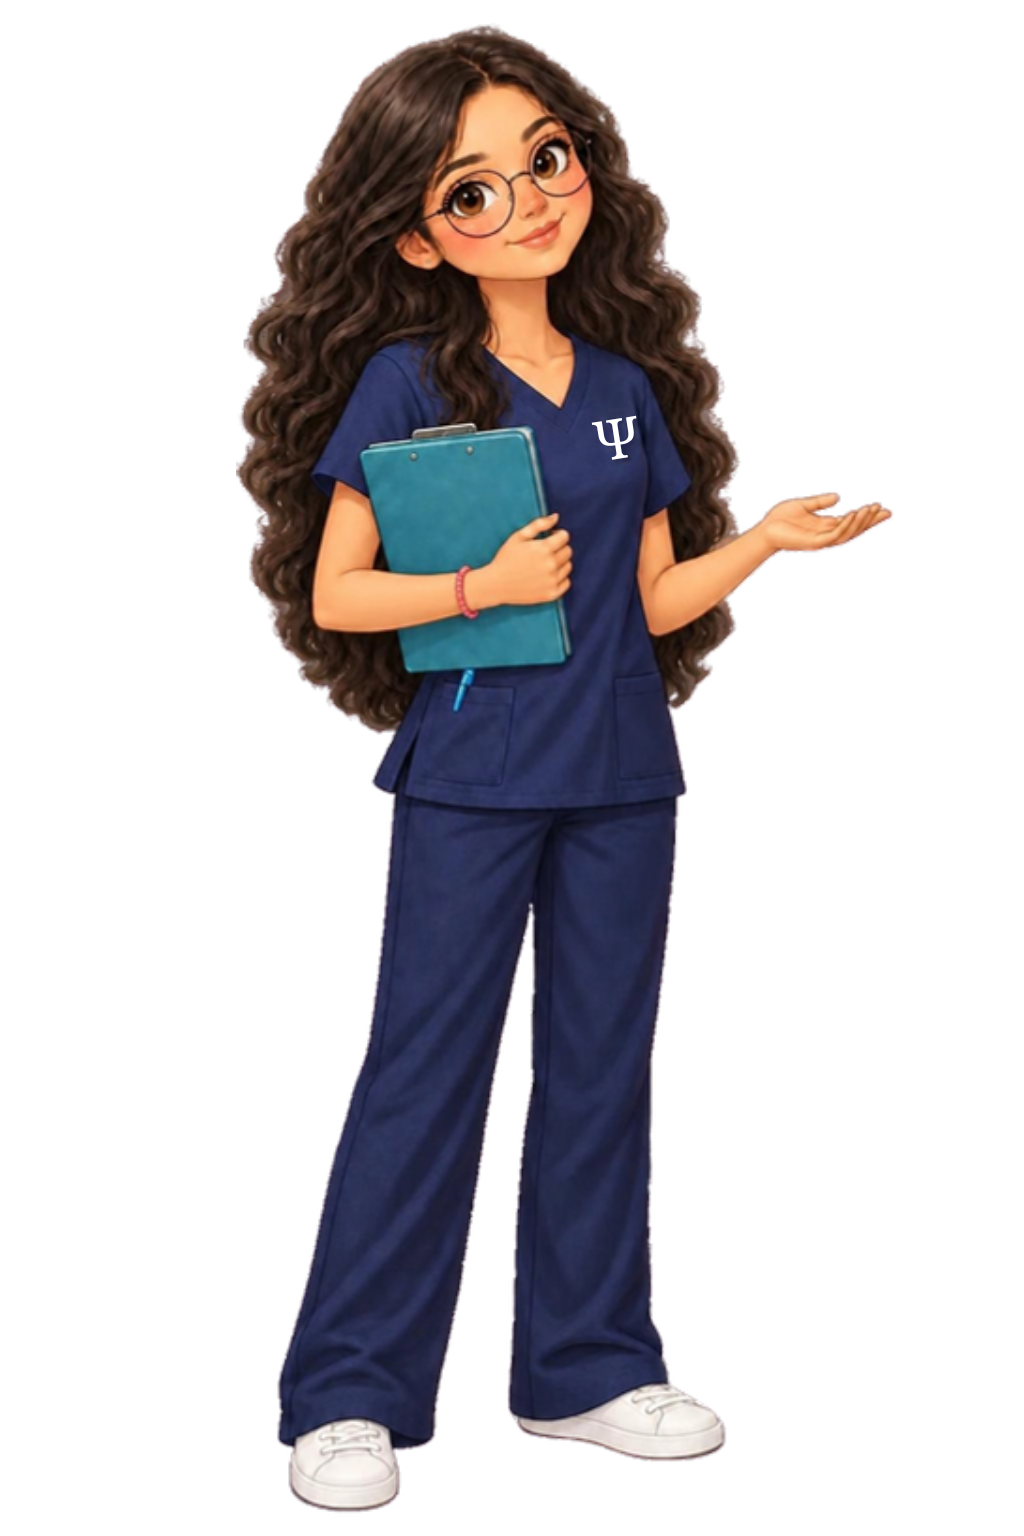
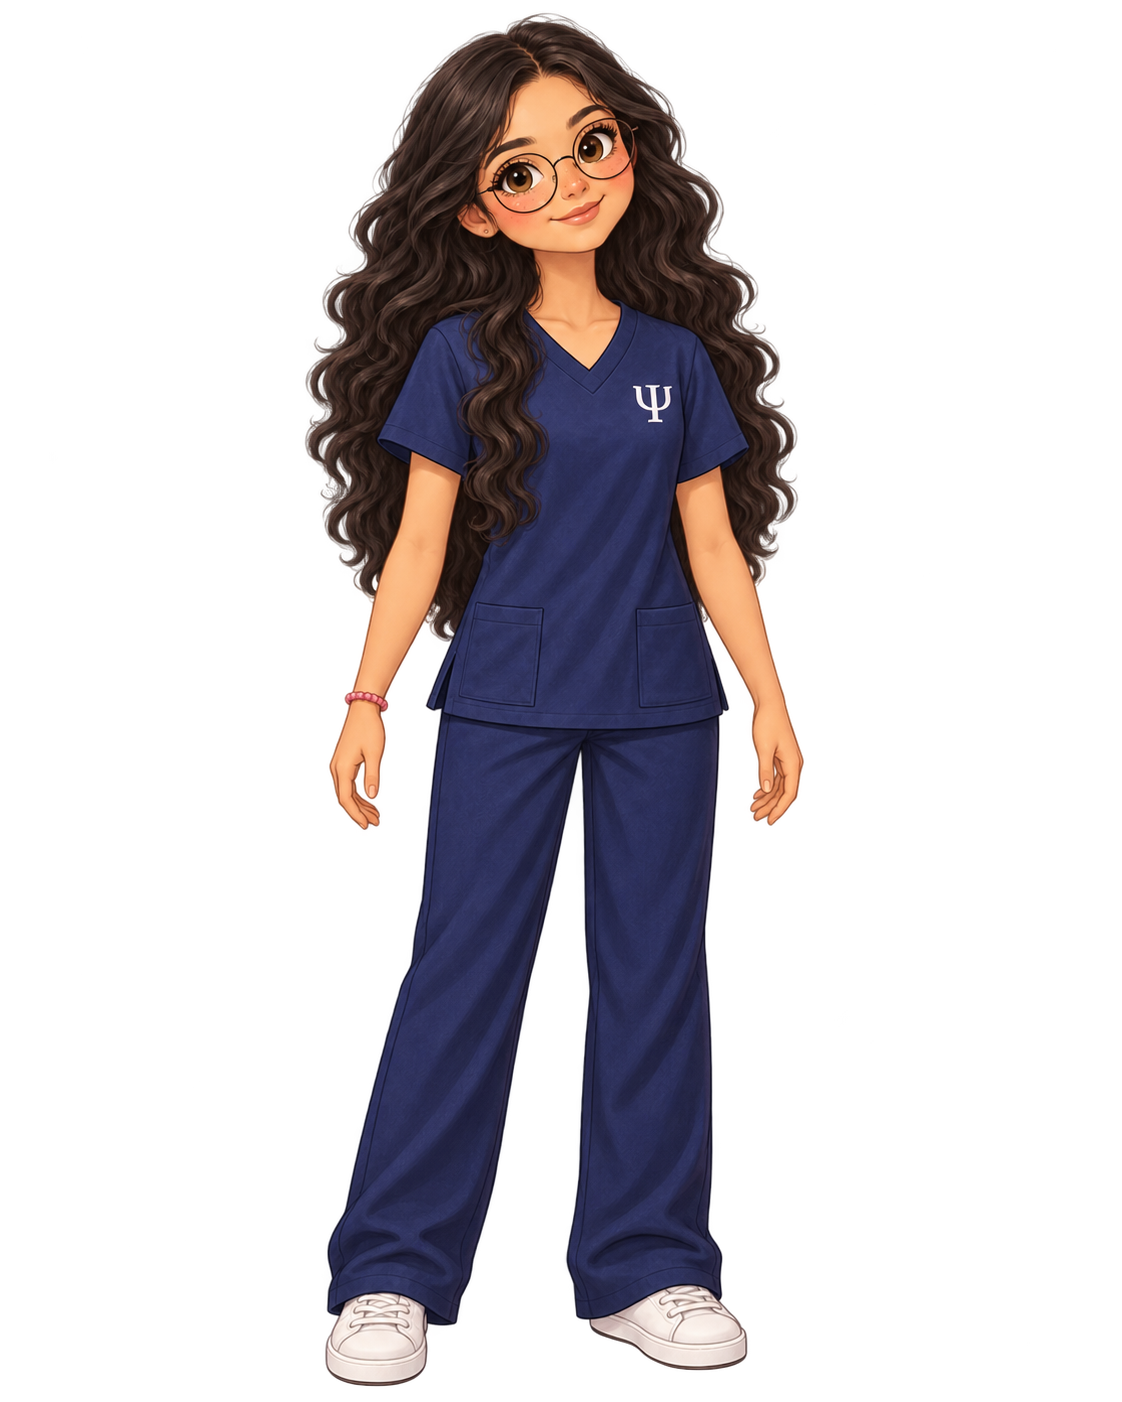
Activar avatares de los 6 perfiles (11 estáticos + PA con video)
AC, DE, EP, IH y AP quedan con imagen fija por sexo (sin video, ya
que por ahora no hay forma de generar más clips animados); PA
conserva el video + hover que ya tenía, con un PNG actualizado del
mismo personaje. app.js ahora distingue entre un personaje con video
(mantiene el gesto al pasar el mouse) y uno solo con imagen (se
muestra fijo, sin cursor de interacción, ya que no hay nada que
reproducir).

AP, DE, EP e IH llegaron como ilustración de escena completa (con
mobiliario) en vez del personaje aislado de AC/PA; se usan tal cual,
a petición del usuario — el encuadre de 260px del resultado las
acomoda bien sin cambios de CSS porque comparten la misma proporción
1024×1536.

Changed region(s): [[0.2188, 0.0, 0.875, 1.0]]

diff --git a/assets/perfil-sentia/profiles.js b/assets/perfil-sentia/profiles.js
@@ -25,7 +25,7 @@ window.SENTIA_PROFILES = {
     recommendations: ['Role-play terapéutico', 'Casos clínicos interactivos', 'Simuladores de intervención', 'Guías de consulta aplicables'],
     characters: {
       f: { image: 'assets/perfil-sentia/avatars/PA-f.png', video: { src: 'assets/perfil-sentia/avatars/PA-f.mp4', bgColor: [244, 238, 232] } },
-      m: null
+      m: { image: 'assets/perfil-sentia/avatars/PA-m.png' }
     }
   },
   AC: {
@@ -37,7 +37,10 @@ window.SENTIA_PROFILES = {
     learningStyle: 'Analítico y reflexivo',
     conecta: ['Diagnóstico diferencial', 'Análisis de caso', 'Evaluación psicológica', 'Criterio clínico'],
     recommendations: ['Diagnóstico diferencial aplicado', 'Casos de evaluación paso a paso', 'Análisis de instrumentos psicométricos', 'Razonamiento clínico avanzado'],
-    characters: { f: null, m: null }
+    characters: {
+      f: { image: 'assets/perfil-sentia/avatars/AC-f.png' },
+      m: { image: 'assets/perfil-sentia/avatars/AC-m.png' }
+    }
   },
   DE: {
     code: 'DE',
@@ -48,7 +51,10 @@ window.SENTIA_PROFILES = {
     learningStyle: 'Estratégico y aplicable',
     conecta: ['Manejo de aula', 'Inclusión educativa', 'Estrategias de enseñanza', 'Acompañamiento socioemocional'],
     recommendations: ['Estrategias de manejo de aula', 'Inclusión educativa en la práctica', 'Herramientas para dificultades de aprendizaje', 'Salud mental en el entorno escolar'],
-    characters: { f: null, m: null }
+    characters: {
+      f: { image: 'assets/perfil-sentia/avatars/DE-f.png' },
+      m: { image: 'assets/perfil-sentia/avatars/DE-m.png' }
+    }
   },
   EP: {
     code: 'EP',
@@ -59,7 +65,10 @@ window.SENTIA_PROFILES = {
     learningStyle: 'Curioso y exploratorio',
     conecta: ['Nuevas especialidades', 'Temas emergentes', 'Perspectivas interdisciplinarias', 'Introducción a áreas nuevas'],
     recommendations: ['Panorama de especialidades en psicología', 'Introducción a nuevas áreas de práctica', 'Tendencias emergentes en salud mental', 'Rutas de especialización'],
-    characters: { f: null, m: null }
+    characters: {
+      f: { image: 'assets/perfil-sentia/avatars/EP-f.png' },
+      m: { image: 'assets/perfil-sentia/avatars/EP-m.png' }
+    }
   },
   IH: {
     code: 'IH',
@@ -70,7 +79,10 @@ window.SENTIA_PROFILES = {
     learningStyle: 'Reflexivo y emocional',
     conecta: ['Manejo emocional', 'Autoconocimiento', 'Comunicación consciente', 'Bienestar integral'],
     recommendations: ['Manejo de ansiedad y estrés', 'Comunicación consciente', 'Autoconocimiento aplicado', 'Hábitos y motivación'],
-    characters: { f: null, m: null }
+    characters: {
+      f: { image: 'assets/perfil-sentia/avatars/IH-f.png' },
+      m: { image: 'assets/perfil-sentia/avatars/IH-m.png' }
+    }
   },
   AP: {
     code: 'AP',
@@ -81,7 +93,10 @@ window.SENTIA_PROFILES = {
     learningStyle: 'Estructurado y orientado a resultados',
     conecta: ['Certificaciones', 'Actualización de conocimientos', 'Clases con especialistas', 'Crecimiento profesional'],
     recommendations: ['Certificaciones con folio verificable', 'Clases en vivo con especialistas', 'Actualización en temas vigentes', 'Rutas de crecimiento profesional'],
-    characters: { f: null, m: null }
+    characters: {
+      f: { image: 'assets/perfil-sentia/avatars/AP-f.png' },
+      m: { image: 'assets/perfil-sentia/avatars/AP-m.png' }
+    }
   }
 };
 

diff --git a/assets/perfil-sentia/app.js b/assets/perfil-sentia/app.js
@@ -251,10 +251,11 @@
     const badgeEl = document.getElementById('res-code');
     const avatarWrap = document.getElementById('res-avatar-wrap');
     const personaje = window.sentiaGetCharacter ? window.sentiaGetCharacter(principal.code, state.genero) : null;
+    const mountKey = principal.code + ':' + state.genero;
     if (personaje && personaje.video && personaje.image && window.SentiaAvatarPlayer) {
       badgeEl.style.display = 'none';
       avatarWrap.style.display = '';
-      const mountKey = principal.code + ':' + state.genero;
+      avatarWrap.style.cursor = '';
       if (avatarWrap.dataset.mounted !== mountKey) {
         avatarWrap.dataset.mounted = mountKey;
         window.SentiaAvatarPlayer.mount(avatarWrap, {
@@ -262,6 +263,20 @@
           videoSrc: personaje.video.src,
           bgColor: personaje.video.bgColor
         });
+      }
+    } else if (personaje && personaje.image) {
+      // Sin video para este perfil/sexo: se muestra el PNG fijo, sin el
+      // gesto de hover (no hay nada que reproducir).
+      badgeEl.style.display = 'none';
+      avatarWrap.style.display = '';
+      avatarWrap.style.cursor = 'default';
+      if (avatarWrap.dataset.mounted !== mountKey) {
+        avatarWrap.dataset.mounted = mountKey;
+        const imgEl = avatarWrap.querySelector('.res-avatar-img');
+        const canvasEl = avatarWrap.querySelector('.res-avatar-canvas');
+        imgEl.src = personaje.image;
+        imgEl.style.display = '';
+        canvasEl.style.display = 'none';
       }
     } else {
       badgeEl.style.display = '';
